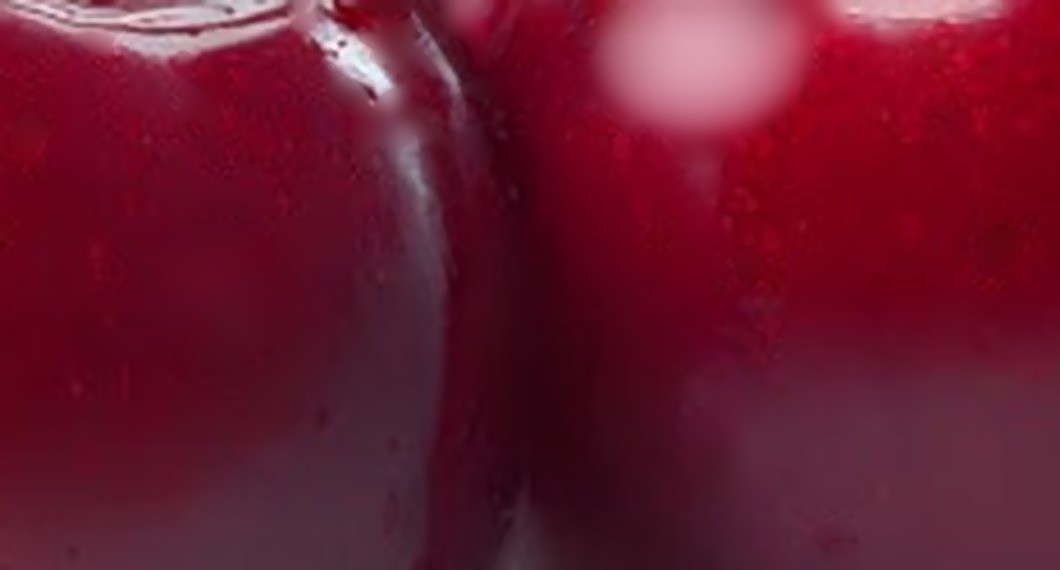
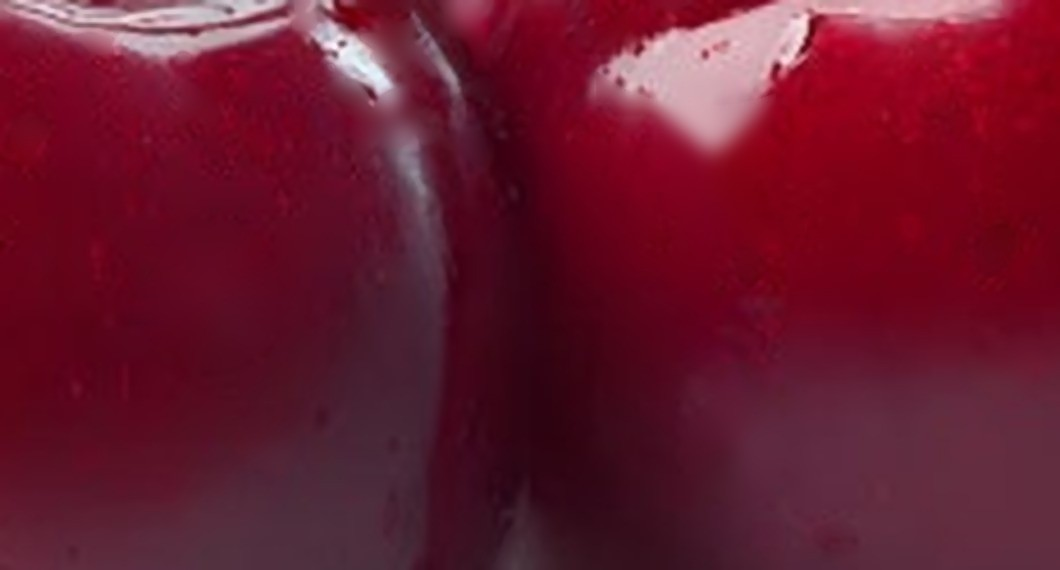
홈: 어디야 체리 뾰족한 꼬리만 지움(빛은 원본), 싸바 놀이터 연두 진하게·글자 그림자 — 버전 2026.11.21-285, sw sava-v260
Claude-Session: https://claude.ai/code/session_01Q9nWZp7SxuQa5ym7jqxsNg

Changed region(s): [[0.5292, 0.0, 0.8094, 0.3281]]

diff --git a/app/index.html b/app/index.html
@@ -366,6 +366,7 @@
     #v-home .nc.stc .ph.art img { display: block; width: 84px; height: auto; filter: drop-shadow(0 0 1.5px rgba(255,255,255,.9)) drop-shadow(0 8px 12px rgba(0,0,0,.35)); }
     #v-home .nc.pg .ph.art span { display: grid; grid-template-columns: repeat(3, 1fr); gap: 0 6px; font-size: 26px; line-height: 1.15; transform: rotate(-6deg); align-self: start; margin-top: 14px; }
     #v-home .nc.pg .ph.art span b { font-weight: 400; }
+    #v-home .nc.pg .tx em, #v-home .nc.pg .tx h3, #v-home .nc.pg .tx p { text-shadow: 0 1px 3px rgba(0,0,0,.45); }
     #v-home .nc .tx { padding: 0 18px 10px; }
     #v-home .nc .tx.np, #v-home .nc.has-art .tx { padding-top: 14px; padding-right: 96px; }
     #v-home .nc .tx em { font-size: 15px; }
@@ -742,7 +743,7 @@
     v.appendChild(lux);
 
     // 2. 어디야? — 12번 크리에이터 레드, 원래 체리 사진(물방울만 지운 eodiya-cherry4.jpg) 그대로, 단추 셋 (이 카드만 예외)
-    var eo = ncard({ pal: 12, photo: '../img/eodiya-cherry5.jpg', title: '어디야?', desc: '잘 지내? 한마디에 답장이 와요' });
+    var eo = ncard({ pal: 12, photo: '../img/eodiya-cherry5.jpg?v=2', title: '어디야?', desc: '잘 지내? 한마디에 답장이 와요' });
     eo.classList.add('eo-c');
     var b3 = el('div', 'eo3');
     b3.innerHTML = '<a href="../eodiya/#ask">싸바?<small>안부 전하기</small></a><a href="../eodiya/#come">여기야!<small>위치 보내기</small></a><a href="../eodiya/#play">놀자!<small>친구 부르기</small></a>';
@@ -831,6 +832,8 @@
     var w = el('div');
     var c = ncard({ pal: pal, href: '../eodiya/#playground', label: '싸바 놀이터 — 게임 ' + GAMES.length + '가지', art: '🎮', em: '게임 ' + GAMES.length + '가지 · 모두 무료', title: '싸바 놀이터', desc: '체리 팡 · 두더지 · 오목 · 눈 나이…', icon: g[1], name: '오늘의 추천', sub: g[2], btn: '놀러 가기' });
     c.classList.add('pg');
+    // 9번 햇살 초록은 위쪽 연두가 너무 연해 흰 글씨가 안 보임 → 이 카드에선 연두를 진하게 (11-21 대표님)
+    if (pal === 9) { c.style.setProperty('--g', 'linear-gradient(180deg,#6F8A22 0%,#4E8A3C 45%,#3E7432 100%)'); c.style.setProperty('--c0', '#6F8A22'); c.style.setProperty('--b', 'linear-gradient(90deg,#3B6E30,#457A36)'); }
     var sp = c.querySelector('.ph.art span'); sp.textContent = '';
     GAMES.slice(0, 6).forEach(function (x) { sp.appendChild(el('b', '', x[1])); });
     w.appendChild(c);

diff --git a/sw.js b/sw.js
@@ -1,5 +1,5 @@
 /* 싸바 서비스워커 — 새 파일을 먼저 받고(network-first), 인터넷이 약하면 저장해 둔 화면을 보여줌 */
-var CACHE = 'sava-v259';
+var CACHE = 'sava-v260';
 var SHELL = ['./', './app/', './eodiya/', './lucky/', './shoot/', './fly/', './pool/', './match/', './rps/', './updown/', './mole/', './chosung/', './eye/', './react/', './omok/', './baduk/', './alkkagi/', './pang/', './grow/', './emo/', './make/', './c/', './css/brand.css', './css/sk.css', './css/sk-world.css',
   './js/codec.js', './js/store.js', './js/designs.js', './js/render.js', './js/roster.js', './js/notice.js', './js/share.js', './js/msgimg.js', './js/install.js', './js/sound.js',
   './img/icon-192.png?v=4', './img/cherry.webp', './img/cherry-dance-anim.svg', './manifest.webmanifest'];

diff --git a/js/install.js b/js/install.js
@@ -126,7 +126,7 @@
     try { navigator.serviceWorker.register(SELF.replace(/js\/install\.js.*$/, 'sw.js')).catch(function () {}); } catch (e) {}
   }
   // ---------- 최신 버전 업데이트 ----------
-  var VER = '2026.11.21-284'; // 올릴 때마다 version.json 과 같이 올림
+  var VER = '2026.11.21-285'; // 올릴 때마다 version.json 과 같이 올림
   var BASE_DIR = SELF ? SELF.replace(/js\/install\.js.*$/, '') : '/';
   var CORE = ['js/install.js', 'js/share.js', 'js/msgimg.js', 'js/designs.js', 'js/render.js', 'js/export.js', 'js/codec.js', 'js/store.js', 'demo/js/card.js', 'css/sk.css', 'css/brand.css', 'sw.js', 'app/', 'make/', 'eodiya/', 'c/'];
   // 휴대폰 브라우저가 묵혀 둔 파일을 서버의 새 파일로 바꿔 둠 (화면은 그대로)

diff --git a/docs/STATUS.md b/docs/STATUS.md
@@ -3,9 +3,10 @@
 > 대화방을 닫기 전에 Claude가 이 파일을 최신으로 고쳐서 커밋한다.
 > 새 방에서 "싸바"라고 하면: 이 파일 → 최근 커밋 순서로 확인하고 바로 이어서 작업.
 
-마지막 갱신: 2026-11-21 03:25
+마지막 갱신: 2026-11-21 03:30
 
 ## 1. 마지막으로 올린 작업
+- 2026-11-21 03:30 — 어디야 체리: 둥근 빛 다시 그리기는 버림(대표님: 한 알을 다 죽이면 안 됨). eodiya-cherry5.jpg를 cherry4 원본에서 다시 만들어 흰 빛은 그대로 살리고 아래로 뻗은 뾰족한 끝(V자 꼬리)만 지움. 싸바 놀이터: 9번 햇살 초록일 때 위쪽 연두가 너무 연해 흰 글씨가 안 보여 이 카드만 진한 연두(#6F8A22→#4E8A3C→#3E7432)로, 글자에 옅은 그림자 · 버전 2026.11.21-285 / sw sava-v260
 - 2026-11-21 03:25 — 어디야 체리: CSS 덧칠로는 뾰족함이 안 없어져 사진 자체를 고침 — 오른쪽 체리의 V자 흰 반사를 지우고(OpenCV inpaint) 같은 자리에 둥근 부드러운 빛을 다시 그림 → img/eodiya-cherry5.jpg (cherry4는 남겨 둠), ::before 덧칠 삭제 · 버전 2026.11.21-284 / sw sava-v259
 - 2026-11-21 03:20 — 어디야 체리: 어둡게 누르기는 풀고(대표님: 빛은 오히려 좋음), 흰 반사 빛의 뾰족한 아래 끝(V자) 둘레만 분홍빛으로 살짝 밝혀 둥글게 (.nc.eo-c .ph::before, screen 섞기, 타원 17%×24% at 65% 17%) · 버전 2026.11.21-283 / sw sava-v258
 - 2026-11-21 03:15 — 어디야 오른쪽 체리 위 빛 누르기를 절반 이하로 약하게·넓게(rgba(120,14,38,.42), 타원 46%×40%) — 진하게 누르니 어두워서 뾰족해 보인다고 하심. 더 밝게(둥글게) 원하시면 ::before를 아예 지우면 원래 사진 · 버전 2026.11.21-282 / sw sava-v257
